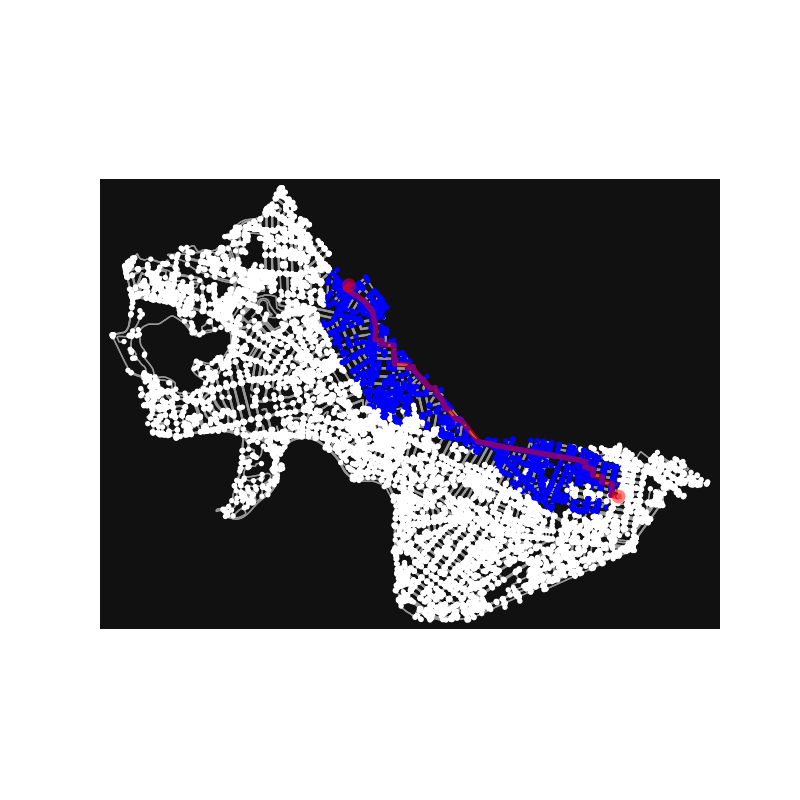
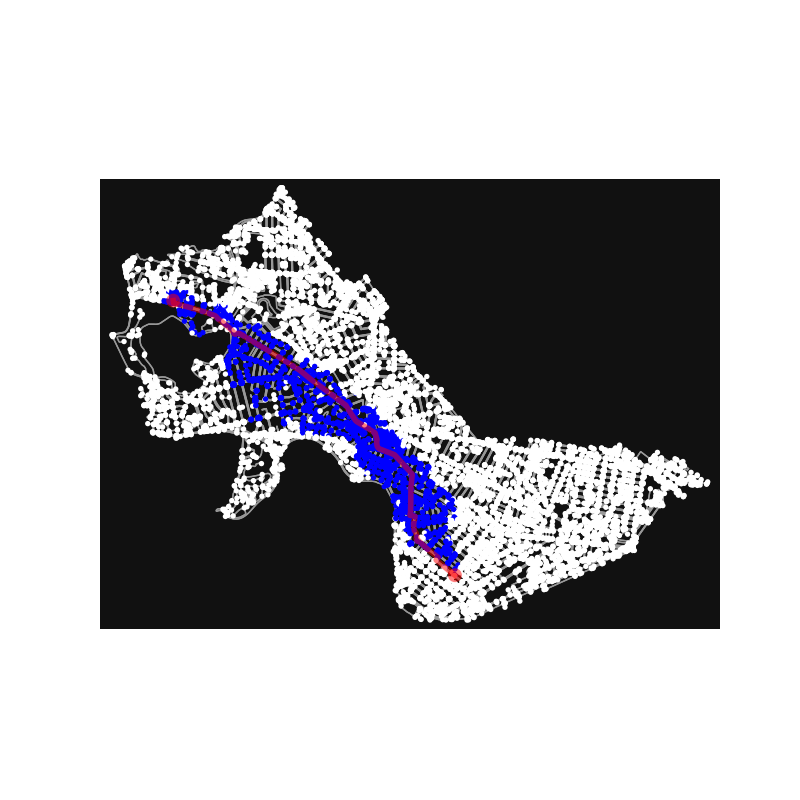
collab filtering results

Changed region(s): [[0.1875, 0.3125, 0.7812, 0.75]]

diff --git a/path_approximation/src/test.py b/path_approximation/src/test.py
@@ -1,7 +1,7 @@
 import logging
 import os.path
 from datetime import datetime
-from testing_functions import run_routing
+from testing_functions import run_routing2
 from pprint import pformat, pprint
 import time
 import numpy as np
@@ -13,7 +13,7 @@ from datasets_generator import create_train_val_test_sets, create_coord_dataset,
 from Trainer import Trainer
 from utils import make_log_folder, generate_config_list
 from neural_net.NeuralNet1 import NeuralNet1
-import coord2vec
+import collaborative_filtering
 
 import torch
 import torch.nn as nn
@@ -71,65 +71,18 @@ if __name__ == '__main__':
         node_list = list(nx_graph.nodes)
         node2idx = {v:i for i,v in enumerate(node_list)}
 
-    
-        ##### Step 2. Run Coord2Vec to get the embedding
-        coord2vec_args = config["coord2vec"]
-        embedding_output_path = "../output/embedding/{name}_embed-epochs{epochs}-lr{lr}-ratio{ratio}-d.pkl".format(name="coord2vec_"+file_name,
-                                                                            epochs=coord2vec_args["epochs"],
-                                                                            lr=coord2vec_args["lr"],
-                                                                            ratio=coord2vec_args["sample_ratio"])
-        if os.path.isfile(embedding_output_path):
-            coord_embedding = data_helper.read_file(embedding_output_path)
-            print(f"Embedding already exists! Read back from {embedding_output_path}")
-        else:
-            print("Creating dataset")
-            dataset_output_path = "../output/datasets/coord2vec_{}_ratio-{}".format(file_name, config["coord2vec"]["sample_ratio"])
+        #### Step 2. Get initial vectors from coordinates
+        coord_embedding = data_helper.get_coord_embedding(nx_graph, node_list)
 
-            if os.path.isfile(dataset_output_path):
-                coord_dataset = data_helper.read_file(dataset_output_path)
-                print(f"Dataset already exists! Read back from {dataset_output_path}")
-            else:
-                coord_dataset = create_coord_dataset(config, nx_graph, node_list, node2idx)
-                data_helper.write_file(dataset_output_path, coord_dataset)
-            print("Finished dataset")
-            print("LENGTH:", coord_dataset.size(0))
-
-            coord_embedding = coord2vec.run_coord2vec(coord_dataset, len(nx_graph.nodes), eval_set=None, args=coord2vec_args, output_path=embedding_output_path)
-        print(f"Done embedding {file_name}!")
-
-        # loss_fn = nn.PoissonNLLLoss(log_input=False, eps=1e-07, reduction='mean')
-        loss_fn = nn.MSELoss(reduction='mean')
-        def real_distance(a, b):
-            R = 6731
-            p = np.pi/180
-            lat_a, long_a, lat_b, long_b = nx_graph.nodes[a]['y'], nx_graph.nodes[a]['x'], nx_graph.nodes[b]['y'], nx_graph.nodes[b]['x'],
-            
-            d = 0.5 - np.cos((lat_b-lat_a)*p)/2 + np.cos(lat_a*p)*np.cos(lat_b*p) * (1-np.cos((long_b-long_a)*p))/2
-            D = 2*R*np.arcsin(np.sqrt(d))
-            return torch.tensor(D)
-        def coord_emb_distance(a, b):
-            x, y = node2idx[a], node2idx[b]
-            left, right = coord_embedding[x], coord_embedding[y]
-            out = np.exp(-np.dot(left, right))
-            return torch.tensor(out)
-
-        errors = []
-        for _ in range(1000):
-            node1, node2 = np.random.choice(node_list), np.random.choice(node_list)
-            errors.append(loss_fn(coord_emb_distance(node1, node2), real_distance(node1, node2)))
-        error = "Coord MSE: {}".format((sum(errors)/len(errors)).item())
-        with open("../output/log.txt", 'w') as f:
-            f.write(error)
-        print(error)
-
-        ##### Step 3. Run Collaborative Filtering using initial embedding to get final embeddings
+        ##### Step 2. Run Collaborative Filtering using initial embedding to get final embeddings
         collab_filtering_args = config["collab_filtering"]
-        assert collab_filtering_args["embedding_dim"] >= coord2vec_args["embedding_dim"]
+        assert collab_filtering_args["embedding_dim"] >= coord_embedding.shape[1]
 
-        embedding_output_path = "../output/embedding/{name}_embed-epochs{epochs}-lr{lr}-ratio{ratio}-d.pkl".format(name="collab_filtering_"+file_name,
+        embedding_output_path = "../output/embedding/{name}_embed-epochs{epochs}-lr{lr}-ratio{ratio}-d{dim}.pkl".format(name="collab_filtering_"+file_name,
                                                                             epochs=collab_filtering_args["epochs"],
                                                                             lr=collab_filtering_args["lr"],
-                                                                            ratio=collab_filtering_args["sample_ratio"])
+                                                                            ratio=collab_filtering_args["sample_ratio"],
+                                                                            dim=collab_filtering_args["embedding_dim"])
         if os.path.isfile(embedding_output_path):
             embedding = data_helper.read_file(embedding_output_path)
             print(f"Embedding already exists! Read back from {embedding_output_path}")
@@ -146,8 +99,9 @@ if __name__ == '__main__':
             print("Finished dataset")
 
             init_embedding = np.random.normal(size=(len(nx_graph.nodes), collab_filtering_args["embedding_dim"]))
-            init_embedding[:, 0:coord2vec_args["embedding_dim"]] = coord_embedding
+            init_embedding[:, 0:coord_embedding.shape[1]] = coord_embedding
             init_embedding = torch.from_numpy(init_embedding)
 
-            embedding = coord2vec.run_coord2vec(collab_filtering_dataset, len(nx_graph.nodes), init_embeddings=init_embedding, eval_set=None, args=collab_filtering_args, output_path=embedding_output_path)
+            embedding = collaborative_filtering.run_collab_filtering(collab_filtering_dataset, len(nx_graph.nodes), init_embeddings=init_embedding, eval_set=None, args=collab_filtering_args, output_path=embedding_output_path)
         print(f"Done embedding {file_name}!")
+        run_routing2(config, nx_graph, embedding)

diff --git a/path_approximation/src/collaborative_filtering.py b/path_approximation/src/collaborative_filtering.py
@@ -12,7 +12,7 @@ from data_helper import write_file
 
 
 # https://github.com/dmlc/dgl/tree/e667545da55017d5dbbd3f243d986506284d3e41/examples/pytorch/node2vec
-class Coord2vec(nn.Module):
+class CollaborativeFiltering(nn.Module):
     """Node2vec model from paper path_approximation: Scalable Feature Learning for Networks <https://arxiv.org/abs/1607.00653>
     Attributes
     ----------
@@ -45,7 +45,7 @@ class Coord2vec(nn.Module):
     """
 
     def __init__(self, dataset, num_nodes, embedding_dim, init_embeddings=None, use_sparse=True):
-        super(Coord2vec, self).__init__()
+        super(CollaborativeFiltering, self).__init__()
         self.dataset = dataset
         self.embedding_dim = embedding_dim
         self.N = num_nodes
@@ -96,18 +96,15 @@ class Coord2vec(nn.Module):
 
         # Positive
         left, right, dist = samples[:, 0].long(), samples[:, 1].long(), samples[:, 2]
-
-        left_emb = self.embedding(left)
-        right_emb = self.embedding(right)
-        out = (left_emb * right_emb).sum(dim=-1).view(-1)
+        left_emb = self.embedding(left).unsqueeze(dim=1)
+        right_emb = self.embedding(right).unsqueeze(dim=1)
+        # out = (left_emb * right_emb).sum(dim=-1).view(-1)
         # print(out.mean(), dist.mean())
-
-        # 1 -> 0
-        # -1 -> inf
-
-        # compute loss
-        h = torch.exp(-out)
+        # h = torch.exp(-out)
         # h = torch.exp(self.bias-out)
+
+        h = torch.cdist(left_emb, right_emb).view(-1) 
+        
         # print("{0:.3f}, {1:.3f}, {2:.3f}".format(h.mean().item(), torch.median(h).item(), dist.mean().item()))
         # print("{0:.3f}".format(h.mean().item()), end=" ")
         loss = self.loss_fn(h, dist)
@@ -123,7 +120,7 @@ class Coord2vec(nn.Module):
         Returns
         -------
         DataLoader
-            Coord2vec training data loader
+            Collaborative Filtering training data loader
         """
         return DataLoader(self.dataset, batch_size=batch_size, shuffle=True)
 
@@ -142,9 +139,9 @@ class Coord2vec(nn.Module):
         return lr.score(x_val, y_val)
 
 
-class Coord2vecModel(object):
+class CollaborativeFilteringModel(object):
     """
-    Wrapper of the ``Coord2Vec`` class with a ``train`` method.
+    Wrapper of the ``CollaborativeFiltering`` class with a ``train`` method.
     Attributes
     ----------
     g: DGLGraph
@@ -184,7 +181,7 @@ class Coord2vecModel(object):
 
     def __init__(self, dataset, num_nodes, embedding_dim, init_embeddings=None, use_sparse=True, eval_set=None, eval_steps=-1, device='cpu'):
 
-        self.model = Coord2vec(dataset, num_nodes, embedding_dim, init_embeddings, use_sparse)
+        self.model = CollaborativeFiltering(dataset, num_nodes, embedding_dim, init_embeddings, use_sparse)
         self.use_sparse = use_sparse
         self.eval_steps = eval_steps
         self.eval_set = eval_set
@@ -252,7 +249,6 @@ class Coord2vecModel(object):
                         print("Epoch: {}, Train Loss: {:.4f}, Val Acc: {:.4f}".format(i + 1, loss, acc))
                     else:
                         print("Epoch: {}, Train Loss: {:.4f}".format(i + 1, loss))
-            print()
 
     def embedding(self, nodes=None):
         """
@@ -270,19 +266,19 @@ class Coord2vecModel(object):
         return self.model(nodes)
 
 
-def run_coord2vec(dataset, num_nodes, init_embeddings=None, eval_set=None, args=None, output_path=None):
+def run_collab_filtering(dataset, num_nodes, init_embeddings=None, eval_set=None, args=None, output_path=None):
     t_tick = time.time()  ## start measuring running time
     if args is None:
-        raise ValueError("need args for coord2vec!")
+        raise ValueError("need args for collaborative filtering!")
 
     # Convert dict to tuple
-    Coord2VecParams = namedtuple('Coord2VecParams', args)
-    args = Coord2VecParams(**args)
+    CollabFilteringParams = namedtuple('CollabFilteringParams', args)
+    args = CollabFilteringParams(**args)
 
-    # train Coord2Vec
-    print("training Coord2Vec, it will take a while...")
-    print("coord2vec's arguments:", args)
-    trainer = Coord2vecModel(dataset,
+    # train CollaborativeFiltering
+    print("training CollaborativeFiltering, it will take a while...")
+    print("CollaborativeFiltering arguments:", args)
+    trainer = CollaborativeFilteringModel(dataset,
                             num_nodes=num_nodes,
                             embedding_dim=args.embedding_dim,
                             init_embeddings=init_embeddings,
@@ -294,7 +290,7 @@ def run_coord2vec(dataset, num_nodes, init_embeddings=None, eval_set=None, args=
 
     t_tock = time.time()
 
-    print(f"done training coord2vec, running time = {np.round((t_tock - t_tick) / 60)} minutes.")
+    print(f"done training CollaborativeFiltering, running time = {np.round((t_tock - t_tick) / 60)} minutes.")
     # Calc embedding
     embedding = trainer.embedding().data
 

diff --git a/path_approximation/src/testing_functions.py b/path_approximation/src/testing_functions.py
@@ -172,10 +172,9 @@ def run_astar(gr, pairs):
         len_pairs += 1
         max_visited = max(max_visited, num_visited)
         sum_visited += num_visited
-    print(datetime.now() - curr_time)
-    print(sum_visited / len_pairs)
-    print(max_visited)
-    print()
+    print("Total Time:", datetime.now() - curr_time)
+    print("Average Num Visited:", sum_visited / len_pairs)
+    print("Max Num Visited:", max_visited)
 
 def plot_route(gr, f_name, node_to_idx, u, v):
     G = gr.graph
@@ -185,7 +184,7 @@ def plot_route(gr, f_name, node_to_idx, u, v):
     for i in range(1, len(route)):
         path_length += G.edges[route[i-1], route[i], 0]['length']
     visited = set(visited)
-    print("length:", path_length)
+    print("Route Length:", path_length)
 
     node_colors = ["white" for _ in range(G.number_of_nodes())]
 
@@ -245,7 +244,7 @@ def run_routing(config, nx_graph, model, embedding, modified_embedding):
     def dist_heuristic(a, b):
         R = 6731000
         p = np.pi/180
-        lat_a, long_a, lat_b, long_b = nx_graph.nodes[a]['y'], nx_graph.nodes[a]['x'], nx_graph.nodes[b]['y'], nx_graph.nodes[b]['x'],
+        lat_a, long_a, lat_b, long_b = nx_graph.nodes[a]['y'], nx_graph.nodes[a]['x'], nx_graph.nodes[b]['y'], nx_graph.nodes[b]['x']
         
         d = 0.5 - np.cos((lat_b-lat_a)*p)/2 + np.cos(lat_a*p)*np.cos(lat_b*p) * (1-np.cos((long_b-long_a)*p))/2
         D = 2*R*np.arcsin(np.sqrt(d))
@@ -293,3 +292,65 @@ def run_routing(config, nx_graph, model, embedding, modified_embedding):
     # print(sum(distances) / len(distances))
     # plot_path = config["graph"]["plot_path"].format(name="modified_"+file_name)
     # plot_route(gr, plot_path+"c-{init_c}-A*_dl.png".format(init_c=config["modified_node2vec"]["init_c"]), node_to_idx, u, v)
+
+def run_routing2(config, nx_graph, embedding):
+    """
+    Run routing algorithm on given graph with given heuristic and landmark method
+    :param config: provide all we need in terms of parameters
+    :return: ?
+    """
+
+    node_to_idx = {v: i for i,v in enumerate(list(nx_graph.nodes()))}
+    model_distances = []
+    def model_heuristic(x,y):
+        x, y = node_to_idx[x], node_to_idx[y]
+        a, b = embedding[x], embedding[y]
+        D = 1000*np.linalg.norm(a-b)
+        model_distances.append(D)
+        return D
+
+    real_distances = []
+    def dist_heuristic(a, b):
+        R = 6731000
+        p = np.pi/180
+        lat_a, long_a, lat_b, long_b = nx_graph.nodes[a]['y'], nx_graph.nodes[a]['x'], nx_graph.nodes[b]['y'], nx_graph.nodes[b]['x']
+        
+        d = 0.5 - np.cos((lat_b-lat_a)*p)/2 + np.cos(lat_a*p)*np.cos(lat_b*p) * (1-np.cos((long_b-long_a)*p))/2
+        D = 2*R*np.arcsin(np.sqrt(d))
+        real_distances.append(D)
+        return D
+
+    gr = GraphRouter(graph=nx_graph)
+    pairs = [(np.random.choice(list(nx_graph.nodes())), np.random.choice(list(nx_graph.nodes()))) for i in range(config["routing_num_samples"])]
+    length = 0
+    while length < 5000:
+        u, v = np.random.choice(list(nx_graph.nodes())), np.random.choice(list(nx_graph.nodes()))
+        route, _, _ = gr.astar(u, v)
+        length = 0
+        for i in range(1, len(route)):
+            length += gr.graph.edges[route[i-1], route[i], 0]['length']
+    if gr.graph.nodes[u]['y'] < gr.graph.nodes[v]['y']:
+        u, v = v, u
+
+    file_name = data_helper.get_file_name(config)
+    plot_path = config["graph"]["plot_path"].format(name=file_name)
+
+    print("Dijkstra's")
+    run_astar(gr, pairs)
+    plot_route(gr, plot_path+"-dijkstra.png", node_to_idx, u, v)
+    print()
+
+    print("A* with Collaborative Filtering Heuristic")
+    gr.heuristic = model_heuristic
+    gr.distances = {}
+    run_astar(gr, pairs)
+    print("Average Heuristic Output:", sum(model_distances) / len(model_distances))
+    plot_route(gr, plot_path+"-A*_dl.png", node_to_idx, u, v)
+
+    if config["graph"]["source"] == "gr" or config["graph"]["source"] == "osmnx":
+        print("A* with Distance Heuristic")
+        gr.heuristic = dist_heuristic
+        gr.distances = {}
+        run_astar(gr, pairs)
+        print("Average Heuristic Output:", sum(real_distances) / len(real_distances))
+        plot_route(gr, plot_path+"-A*_dist.png", node_to_idx, u, v)

diff --git a/path_approximation/src/test2.py b/path_approximation/src/test2.py
@@ -1,0 +1,41 @@
+import osmnx as ox
+import numpy as np
+from data_helper import download_networkx_graph
+
+def real_distance(nx_graph, a, b):
+    R = 6731000
+    p = np.pi/180
+    lat_a, long_a, lat_b, long_b = nx_graph.nodes[a]['y']*p, nx_graph.nodes[a]['x']*p, nx_graph.nodes[b]['y']*p, nx_graph.nodes[b]['x']*p
+    d = 0.5 - np.cos(lat_b-lat_a)/2 + np.cos(lat_a)*np.cos(lat_b) * (1-np.cos(long_b-long_a))/2
+    D = 2*R*np.arcsin(np.sqrt(d))
+    return D
+
+def approx_distance(nx_graph, a, b):
+    R = 6731000
+    p = np.pi/180
+    lat_a, long_a, lat_b, long_b = nx_graph.nodes[a]['y']*p, nx_graph.nodes[a]['x']*p, nx_graph.nodes[b]['y']*p, nx_graph.nodes[b]['x']*p
+    x = (long_b - long_a) * np.cos( 0.5*(lat_a+lat_b) )
+    y = lat_b-lat_a
+    d = R*np.sqrt(x*x + y*y)
+    return d
+
+def vector_distance(nx_graph, a, b):
+    R = 6731000
+    p = np.pi/180
+    lat_a, long_a, lat_b, long_b = nx_graph.nodes[a]['y']*p, nx_graph.nodes[a]['x']*p, nx_graph.nodes[b]['y']*p, nx_graph.nodes[b]['x']*p
+    vec_a = R*np.hstack((np.cos(lat_a)*np.cos(long_a), np.cos(lat_a)*np.sin(long_a), np.sin(lat_a)))
+    vec_b = R*np.hstack((np.cos(lat_b)*np.cos(long_b), np.cos(lat_b)*np.sin(long_b), np.sin(lat_b)))
+    return np.linalg.norm(vec_b-vec_a)
+
+def test(G):
+    a, b = np.random.choice(list(G.nodes)), np.random.choice(list(G.nodes))
+    print(real_distance(G, a, b))
+    print(approx_distance(G, a, b))
+    print(vector_distance(G, a, b))
+
+G = download_networkx_graph("cambridge ma", "drive")
+test(G)
+print()
+G2 = download_networkx_graph("cambridge", "drive")
+test(G2)
+

diff --git a/path_approximation/src/data_helper.py b/path_approximation/src/data_helper.py
@@ -245,3 +245,14 @@ def get_file_name(config):
     # if config[]["modified"]:
     #     file_name = "modified_"+file_name
     return file_name
+
+def get_coord_embedding(nx_graph, node_list):
+    R = 6731
+    p = np.pi/180
+    embedding = np.zeros((len(node_list), 3))
+    for i,node in enumerate(node_list):
+        lat, long  = nx_graph.nodes[node]['y']*p, nx_graph.nodes[node]['x']*p
+        vec = R*np.hstack((np.cos(lat)*np.cos(long), np.cos(lat)*np.sin(long), np.sin(lat)))
+        embedding[i] = vec
+    return embedding
+
